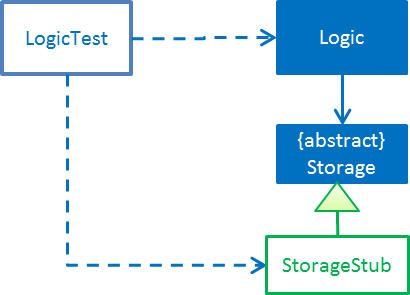
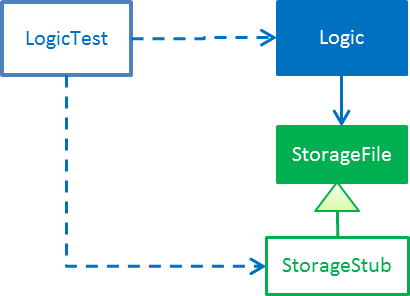
Correct wrong diagram in DIP

diff --git a/doc/LearningOutcomes.md b/doc/LearningOutcomes.md
@@ -129,7 +129,7 @@ getting the `StorageFile` class involved? That is a situation where we can use *
 * The example above uses [DIP](#apply-dependency-inversion-principle-lo-dip) as a means to achieve DI.
   Note that there is another way to inject a `StorageStub` object, as shown below.
   In this case we do not apply the DIP but we still achieve DI.<br>
-  <img src="images/DependencyInjectionWithoutDIP.png" width="300">
+  <img src="images/DependencyInjectionWithoutDIP.png" width="250">
 
 ------------------------------------------------------------------------------------------------------
 
